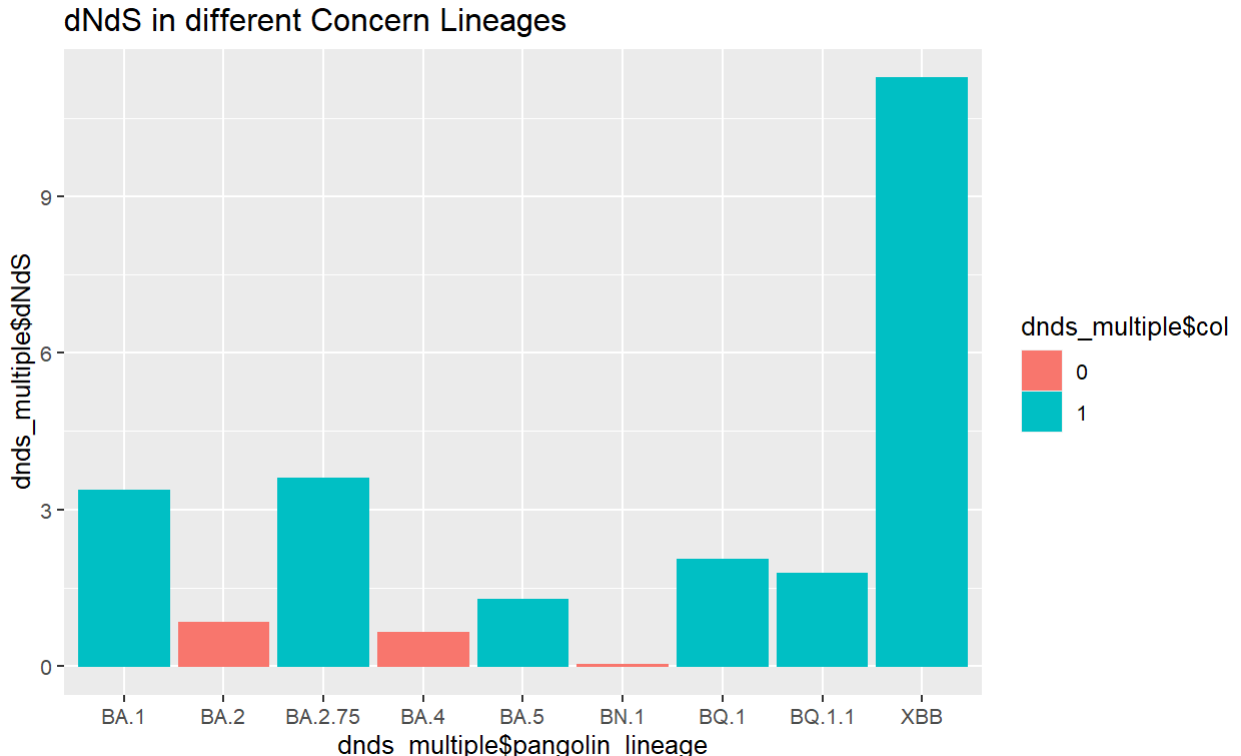
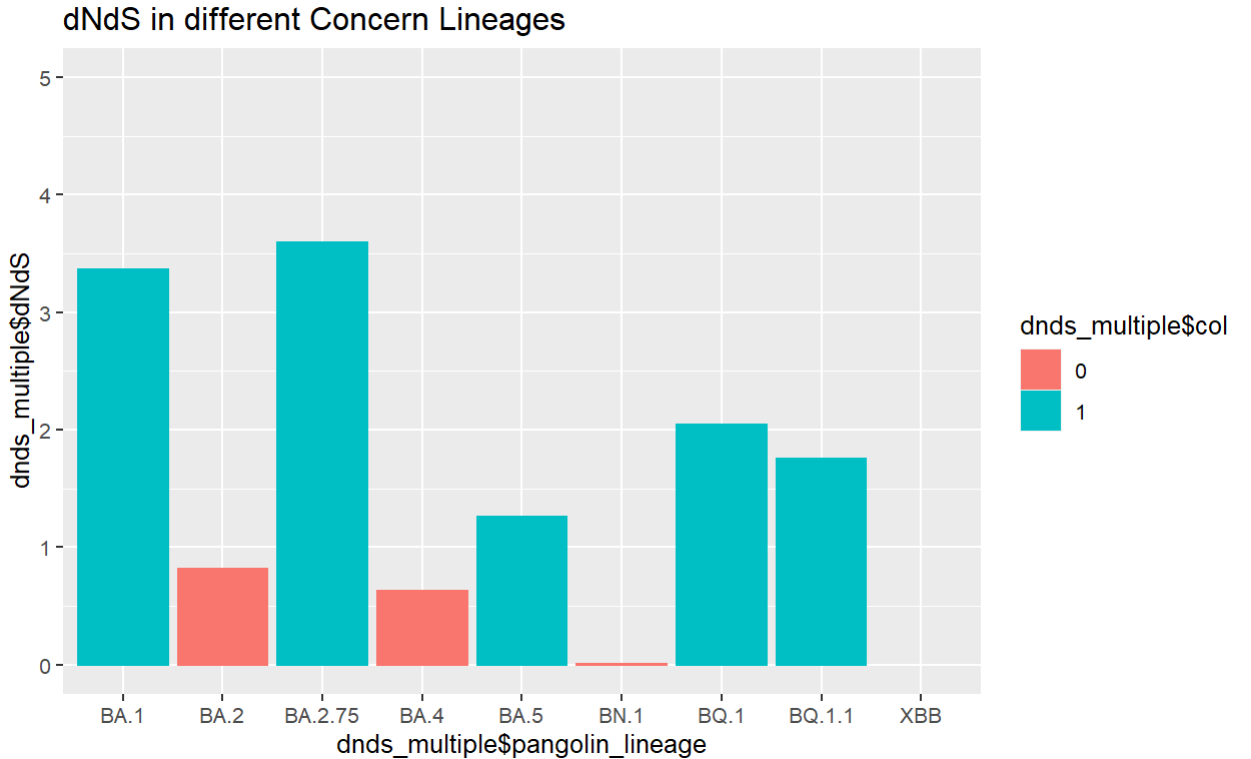
Week 12

diff --git a/DiaryLog/Daily_Week12.md b/DiaryLog/Daily_Week12.md
@@ -22,4 +22,7 @@ Proof:
 ![lineages](https://github.com/KirakiraZLY/Variants-and-mutation-rate-in-SARS-Cov2/blob/main/Img/Week%2012/ConcernLineages.jpg?raw=true)
 reference: https://www.ecdc.europa.eu/en/covid-19/variants-concern
 
-## 5. 
+## 5. dNdS_new of Concern Lineages
+![inDifferentLineages](https://github.com/KirakiraZLY/Variants-and-mutation-rate-in-SARS-Cov2/blob/main/Img/Week%2012/dNdS_in_different_concern_lineages.png?raw=true)   
+**Blue: >1, positive   
+Red: <1, negative**
